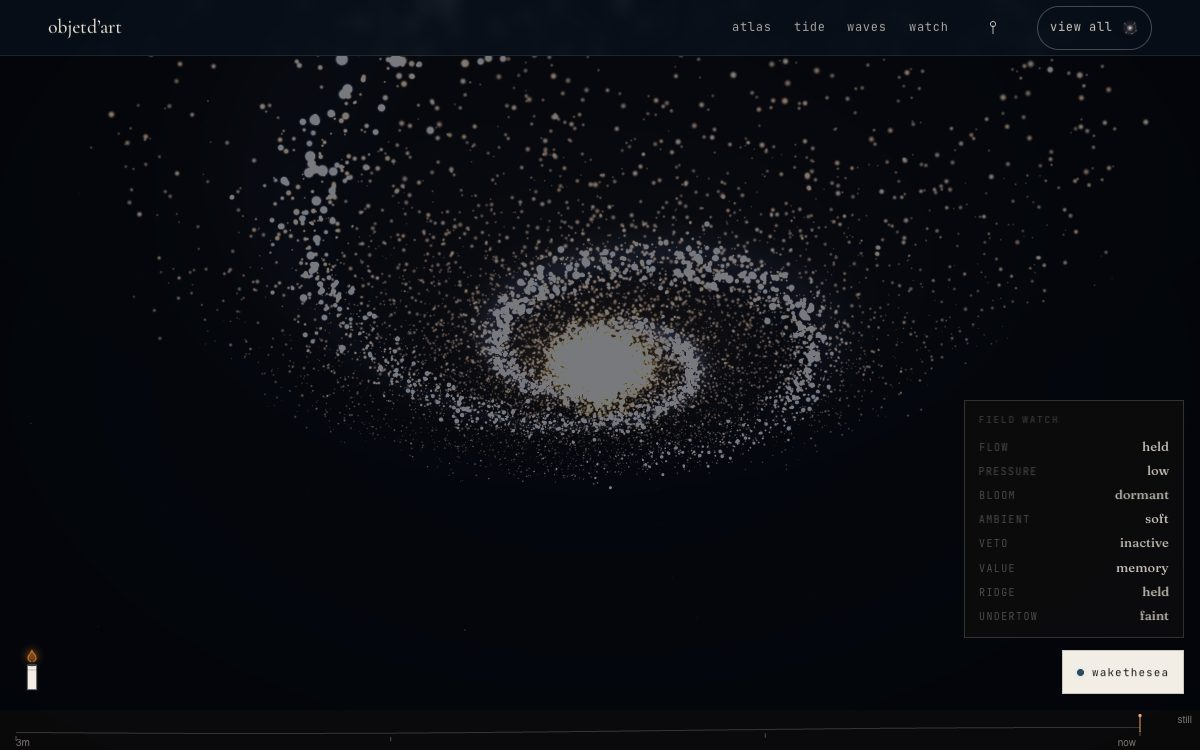
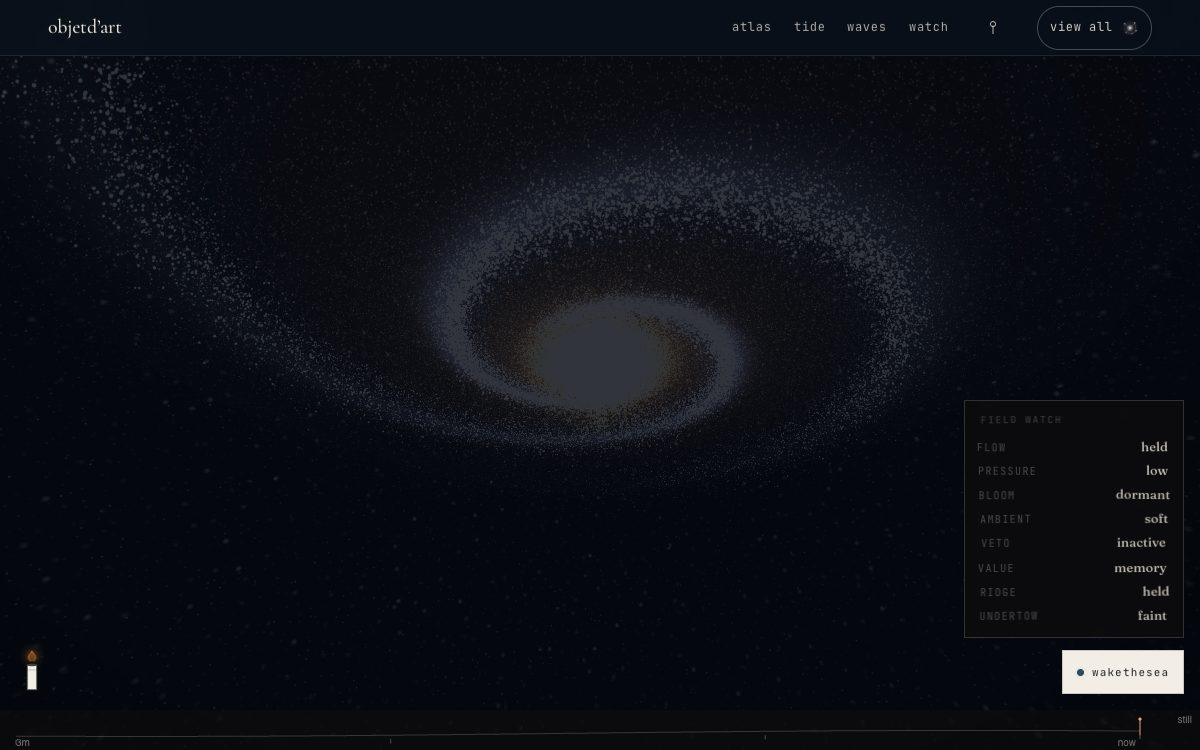
feat(galaxy): frame the disc on a phone, and its portrait in the guide
A tall frame was retreating far enough to turn the galaxy into a coin. The
fit is capped now: past it the rim runs off the sides, which is what
standing closer means. Re-shot public/guide/galaxy.jpg against the build.

diff --git a/src/components/GalaxyArms.tsx b/src/components/GalaxyArms.tsx
@@ -1482,7 +1482,10 @@ export default function GalaxyArms() {
         -0.02,
       );
       setBasis(yaw, pitchCam, roll + (reduced ? 0 : 0.03 * Math.sin(T * 0.013)));
-      const fit = Math.max(BASE_RANGE, (0.98 * FOCAL) / Math.max(0.4, aspect));
+      // Frame the disc by the narrow axis, but never retreat so far that a
+      // tall phone frame turns the galaxy into a coin: past the cap the rim
+      // is allowed to run off the sides, which is what standing closer means.
+      const fit = Math.min(2.05, Math.max(BASE_RANGE, (0.98 * FOCAL) / Math.max(0.4, aspect)));
       fitScale = fit / BASE_RANGE;
       const range = fit * (1 - 0.24 * followLevel) + (reduced ? 0 : 0.05 * Math.sin(T * 0.019));
       // the eye leans toward a ridden star, but never leaves the room
